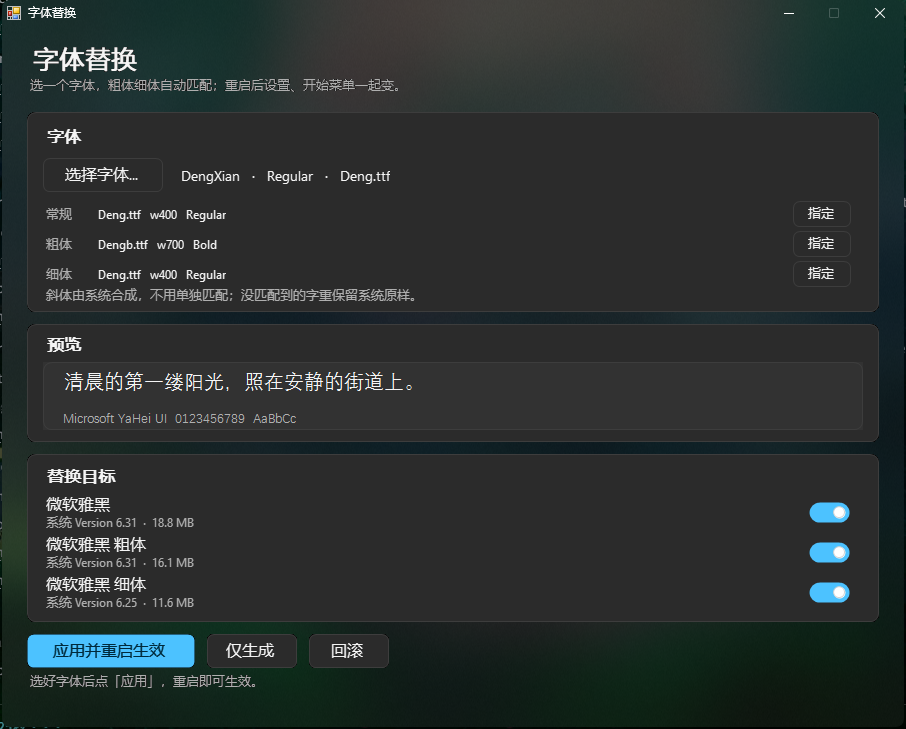
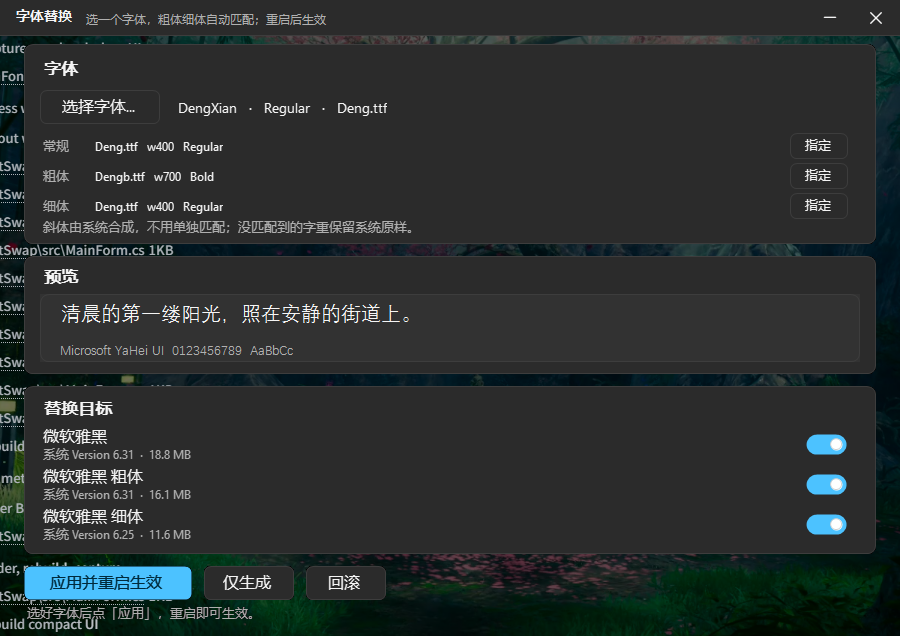
feat(ui): 自绘标题栏、去掉系统边框，窗口压成紧凑单页
- 无边框窗口：36px 自绘标题条（应用名 + 说明 + 最小化/关闭），按住可拖动
- 去掉内容区里的大标题，卡片上移，窗口 900x636
- 保留透明色键背景（卡片与标题条不透明，其余透出桌面）

diff --git a/src/MainForm.cs b/src/MainForm.cs
@@ -11,12 +11,13 @@ namespace WinFontSwap
 {
     public sealed class MainForm : Form
     {
-        const int W = 900, H = 700, PadX = 24;
+        const int W = 900, H = 600, PadX = 24, TitleH = 36;
         const int InnerW = W - PadX * 2;
 
         string _demo;
 
-        Label _title, _subtitle;
+        Panel _titleBar, _content;
+
         RoundedButton _pickBtn;
         Label _pickedLabel;
         Label[] _slotLabels = new Label[3];
@@ -38,9 +39,9 @@ namespace WinFontSwap
         {
             _demo = demoFont;
             Text = "字体替换";
-            FormBorderStyle = FormBorderStyle.FixedSingle;
+            FormBorderStyle = FormBorderStyle.None;
             MaximizeBox = false;
-            ClientSize = new Size(W, H);
+            ClientSize = new Size(W, H + TitleH);
             StartPosition = FormStartPosition.CenterScreen;
             TransparencyKey = Theme.KeyColor;
             BackColor = Theme.BackPaint;
@@ -50,7 +51,10 @@ namespace WinFontSwap
             SetStyle(ControlStyles.UserPaint | ControlStyles.OptimizedDoubleBuffer |
                      ControlStyles.AllPaintingInWmPaint, true);
 
-            BuildHeader();
+            BuildTitleBar();
+            _content = new Panel { Location = new Point(0, TitleH), Size = new Size(W, H), Tag = "glass" };
+            Controls.Add(_content);
+
             BuildFontCard();
             BuildPreviewCard();
             BuildTargetCard();
@@ -116,27 +120,45 @@ namespace WinFontSwap
             using (var b = new SolidBrush(Theme.BackPaint)) e.Graphics.FillRectangle(b, ClientRectangle);
         }
 
-        void BuildHeader()
+        [DllImport("user32.dll")]
+        static extern bool ReleaseCapture();
+
+        [DllImport("user32.dll")]
+        static extern IntPtr SendMessage(IntPtr h, int msg, IntPtr w, IntPtr l);
+
+        void AddChild(Control c) { _content.Controls.Add(c); }
+
+        void BuildTitleBar()
         {
-            _title = new Label
+            _titleBar = new Panel { Location = new Point(0, 0), Size = new Size(W, TitleH), Tag = "surface" };
+            _titleBar.MouseDown += delegate (object s, MouseEventArgs e)
             {
-                Text = "字体替换",
-                Font = new Font("Segoe UI", 18f, FontStyle.Bold),
-                AutoSize = false,
-                Location = new Point(PadX, 16),
-                Size = new Size(500, 34)
+                if (e.Button == MouseButtons.Left)
+                {
+                    ReleaseCapture();
+                    SendMessage(Handle, 0xA1, (IntPtr)0x2, IntPtr.Zero);   // WM_NCLBUTTONDOWN / HTCAPTION
+                }
             };
-            _subtitle = new Label
+            _titleBar.Paint += delegate (object s, PaintEventArgs e)
             {
-                Text = "选一个字体，粗体细体自动匹配；重启后设置、开始菜单一起变。",
-                Tag = "dim",
-                Font = new Font("Segoe UI", 9f),
-                AutoSize = false,
-                Location = new Point(PadX, 52),
-                Size = new Size(W - PadX * 2, 22)
+                var p = Theme.Current;
+                e.Graphics.Clear(p.Surface);
+                using (var pen = new Pen(p.Line)) e.Graphics.DrawLine(pen, 0, TitleH - 1, W, TitleH - 1);
+                using (var f = new Font("Segoe UI", 10f, FontStyle.Bold))
+                using (var b = new SolidBrush(p.Text))
+                    e.Graphics.DrawString("字体替换", f, b, new PointF(14, 7));
+                using (var f2 = new Font("Segoe UI", 8.5f))
+                using (var b2 = new SolidBrush(p.TextDim))
+                    e.Graphics.DrawString("选一个字体，粗体细体自动匹配；重启后生效", f2, b2, new PointF(84, 12));
             };
-            Controls.Add(_title);
-            Controls.Add(_subtitle);
+            Controls.Add(_titleBar);
+
+            var min = new CaptionButton { Glyph = "\uE921", Location = new Point(W - 92, 2) };
+            min.Click += delegate { WindowState = FormWindowState.Minimized; };
+            var close = new CaptionButton { Glyph = "\uE8BB", Close = true, Location = new Point(W - 46, 2) };
+            close.Click += delegate { Close(); };
+            _titleBar.Controls.Add(min);
+            _titleBar.Controls.Add(close);
         }
 
         Label Header(string text, int x, int y)
@@ -153,8 +175,8 @@ namespace WinFontSwap
 
         void BuildFontCard()
         {
-            var card = new CardPanel { Location = new Point(PadX, 86), Size = new Size(InnerW, 200) };
-            Controls.Add(card);
+            var card = new CardPanel { Location = new Point(PadX, 8), Size = new Size(InnerW, 200) };
+            AddChild(card);
             card.Controls.Add(Header("字体", 16, 14));
 
             _pickBtn = new RoundedButton { Text = "选择字体…", Location = new Point(16, 46), Size = new Size(120, 34) };
@@ -229,8 +251,8 @@ namespace WinFontSwap
 
         void BuildPreviewCard()
         {
-            var card = new CardPanel { Location = new Point(PadX, 298), Size = new Size(InnerW, 118) };
-            Controls.Add(card);
+            var card = new CardPanel { Location = new Point(PadX, 220), Size = new Size(InnerW, 118) };
+            AddChild(card);
             card.Controls.Add(Header("预览", 16, 10));
             _preview = new PreviewBox { Location = new Point(16, 38), Size = new Size(InnerW - 32, 68) };
             card.Controls.Add(_preview);
@@ -238,8 +260,8 @@ namespace WinFontSwap
 
         void BuildTargetCard()
         {
-            var card = new CardPanel { Location = new Point(PadX, 428), Size = new Size(InnerW, 168) };
-            Controls.Add(card);
+            var card = new CardPanel { Location = new Point(PadX, 350), Size = new Size(InnerW, 168) };
+            AddChild(card);
             card.Controls.Add(Header("替换目标", 16, 12));
 
             string[] targetNames = { "微软雅黑", "微软雅黑 粗体", "微软雅黑 细体" };
@@ -276,20 +298,20 @@ namespace WinFontSwap
 
         void BuildActions()
         {
-            _applyBtn = new RoundedButton { Text = "应用并重启生效", Primary = true, Location = new Point(PadX, 608), Size = new Size(168, 34) };
-            _genBtn = new RoundedButton { Text = "仅生成", Location = new Point(PadX + 180, 608), Size = new Size(90, 34) };
-            _rollbackBtn = new RoundedButton { Text = "回滚", Location = new Point(PadX + 282, 608), Size = new Size(80, 34) };
-            _cancelBtn = new RoundedButton { Text = "取消排队", Visible = false, Location = new Point(PadX + 374, 608), Size = new Size(96, 34) };
+            _applyBtn = new RoundedButton { Text = "应用并重启生效", Primary = true, Location = new Point(PadX, 530), Size = new Size(168, 34) };
+            _genBtn = new RoundedButton { Text = "仅生成", Location = new Point(PadX + 180, 530), Size = new Size(90, 34) };
+            _rollbackBtn = new RoundedButton { Text = "回滚", Location = new Point(PadX + 282, 530), Size = new Size(80, 34) };
+            _cancelBtn = new RoundedButton { Text = "取消排队", Visible = false, Location = new Point(PadX + 374, 530), Size = new Size(96, 34) };
 
             _applyBtn.Click += async delegate (object s, EventArgs e) { await RunApply(false); };
             _genBtn.Click += async delegate (object s, EventArgs e) { await RunApply(true); };
             _rollbackBtn.Click += async delegate (object s, EventArgs e) { await RunRollback(); };
             _cancelBtn.Click += async delegate (object s, EventArgs e) { await RunCancel(); };
 
-            Controls.Add(_applyBtn);
-            Controls.Add(_genBtn);
-            Controls.Add(_rollbackBtn);
-            Controls.Add(_cancelBtn);
+            AddChild(_applyBtn);
+            AddChild(_genBtn);
+            AddChild(_rollbackBtn);
+            AddChild(_cancelBtn);
 
             _status = new Label
             {
@@ -297,10 +319,10 @@ namespace WinFontSwap
                 Tag = "dim",
                 Font = new Font("Segoe UI", 9f),
                 AutoSize = false,
-                Location = new Point(PadX, 648),
+                Location = new Point(PadX, 570),
                 Size = new Size(InnerW, 22)
             };
-            Controls.Add(_status);
+            AddChild(_status);
         }
 
         // ---------------- 行为 ----------------
@@ -309,7 +331,7 @@ namespace WinFontSwap
         {
             Theme.Apply("system", this);
             BackColor = Theme.BackPaint;
-            _title.ForeColor = Theme.Current.Text;
+            if (_titleBar != null) _titleBar.Invalidate(true);
             Log("程序已以管理员身份运行");
             RefreshTargets();
             await Task.Run(delegate

diff --git a/src/Theme.cs b/src/Theme.cs
@@ -113,7 +113,8 @@ namespace WinFontSwap
             else if (c is Panel)
             {
                 var tag = c.Tag as string;
-                c.BackColor = tag == "surface" ? p.Surface : (tag == "alt" ? p.SurfaceAlt : p.Bg);
+                if (tag == "glass") c.BackColor = Color.Transparent;
+                else c.BackColor = tag == "surface" ? p.Surface : (tag == "alt" ? p.SurfaceAlt : p.Bg);
             }
 
             foreach (Control child in c.Controls) Restyle(child);

diff --git a/src/Controls.cs b/src/Controls.cs
@@ -27,6 +27,7 @@ namespace WinFontSwap
         {
             var card = c.Parent as CardPanel;
             if (card != null) return card.Emphasis ? Theme.Current.SurfaceAlt : Theme.Current.Surface;
+            if (c.Parent != null && (c.Parent.Tag as string) == "surface") return Theme.Current.Surface;
             return Theme.BackPaint;
         }
 
